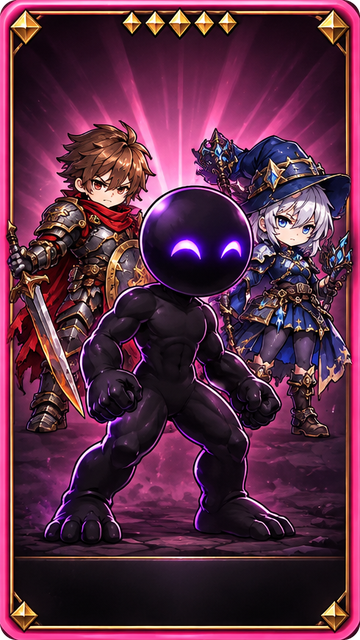
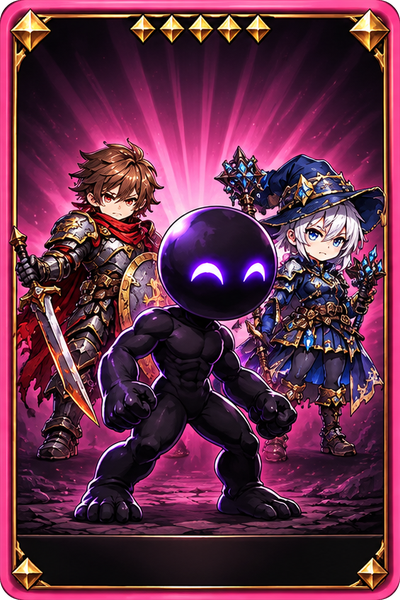
v0.7.2.0869 영웅 보스 카드 그림 2:3 교체 (연구실 전용)
Claude-Session: https://claude.ai/code/session_019uRSFLWrzZj28M4a6gukjc

diff --git a/HANDOFF.md b/HANDOFF.md
@@ -1,5 +1,5 @@
 # 작업 인계 (HANDOFF) — 어둠의 수호자 / Dark Guardian
-> 마지막 갱신: 2026-11-23 08:20 · 기준 버전 **v0.7.2.0868** · 새 세션은 이 문서와 `CLAUDE.md`를 먼저 읽고 이어서 작업합니다.
+> 마지막 갱신: 2026-11-23 08:20 · 기준 버전 **v0.7.2.0869** · 새 세션은 이 문서와 `CLAUDE.md`를 먼저 읽고 이어서 작업합니다.
 > ⚠ 비밀번호·복구 코드·저장 데이터는 이 문서에 적지 않습니다. (관리자 비밀번호는 노트·커밋 어디에도 쓰지 않고 `****`)
 
 ## 1. 프로젝트
@@ -23,6 +23,7 @@
 - 주의: 새 CSS 클래스 이름은 기존과 겹치기 쉬움(예: `.nw`는 NEW 딱지 → 연출 클래스는 `x…` 접두어 사용). 시안 이미지는 같은 하네스에서 DOM/CSS를 덧씌워 "실제 화면" 위에 그립니다.
 
 ## 4. 이번 세션에서 한 일 (최신순)
+- v0.7.2.0869 카드 그림을 2:3 새 일러스트(400×600, 둥근 모서리 투명)로 교체, `.cdX`·`.cpA img.cf` 비율 2/3으로 복귀. (0867의 9:16 임시 교체는 대체됨)
 - v0.7.2.0868 새 캐릭터 화면(`showNew`): `☁ 이미 캐릭터…` → 바로 `clLoadModal()`, `← 돌아가기`가 보이면 숨김(패치노트). **패치노트는 연구실(`#rsPn` → `patchModal()`, 비밀번호 없음)으로 이동 — 메뉴·게임 중 메뉴 버튼 제거, 좌상단 버전 글자는 `rsOn()`일 때만 열림.** 연구실: 관리자 노트·패치노트(왼쪽 열)/캐릭터 로그(오른쪽 열). `🧹 정리하기`는 클라우드 저장본 목록(`rsSaveView(pw0)`)의 새로고침 자리로 이동(`rsSaveClean(pw0)`, 끝나면 목록 다시 불러옴). **캐릭터 최대 수 `maxChar()` = 관리자 10 / 일반 5**(`MAXCHAR` 상수 폐지, 초과 보유자는 유지). **관리자 비밀번호 변경: 화면 `RS_H`(FNV 해시)와 서버 `dd_lab_ok`(SHA-256 해시, `supabase_lab_pw.sql`, 마이그레이션 `dd_lab_pw_hash` 적용 완료) 둘 다 바꿈 — 비밀번호는 어디에도 적지 않음.** `dd_save` ver=1·캐릭터 0명 2행 삭제(audit 자동 기록 확인). `notice.txt`의 패치노트 안내 줄 삭제. (참고: `S5PW`(5스테이지 해제 암호, index.html 상단)는 관리자 비밀번호와 별개의 옛 값이며 이번에 바꾸지 않음)
 - v0.7.2.0843 5스테이지 배경 `field_4_2.jpg` 추가(관리자노트 기록).
 - v0.7.2.0844 하엘 `h3`(해독제 배달) 대사 다듬기(안B 채택, 관리자노트 기록).
